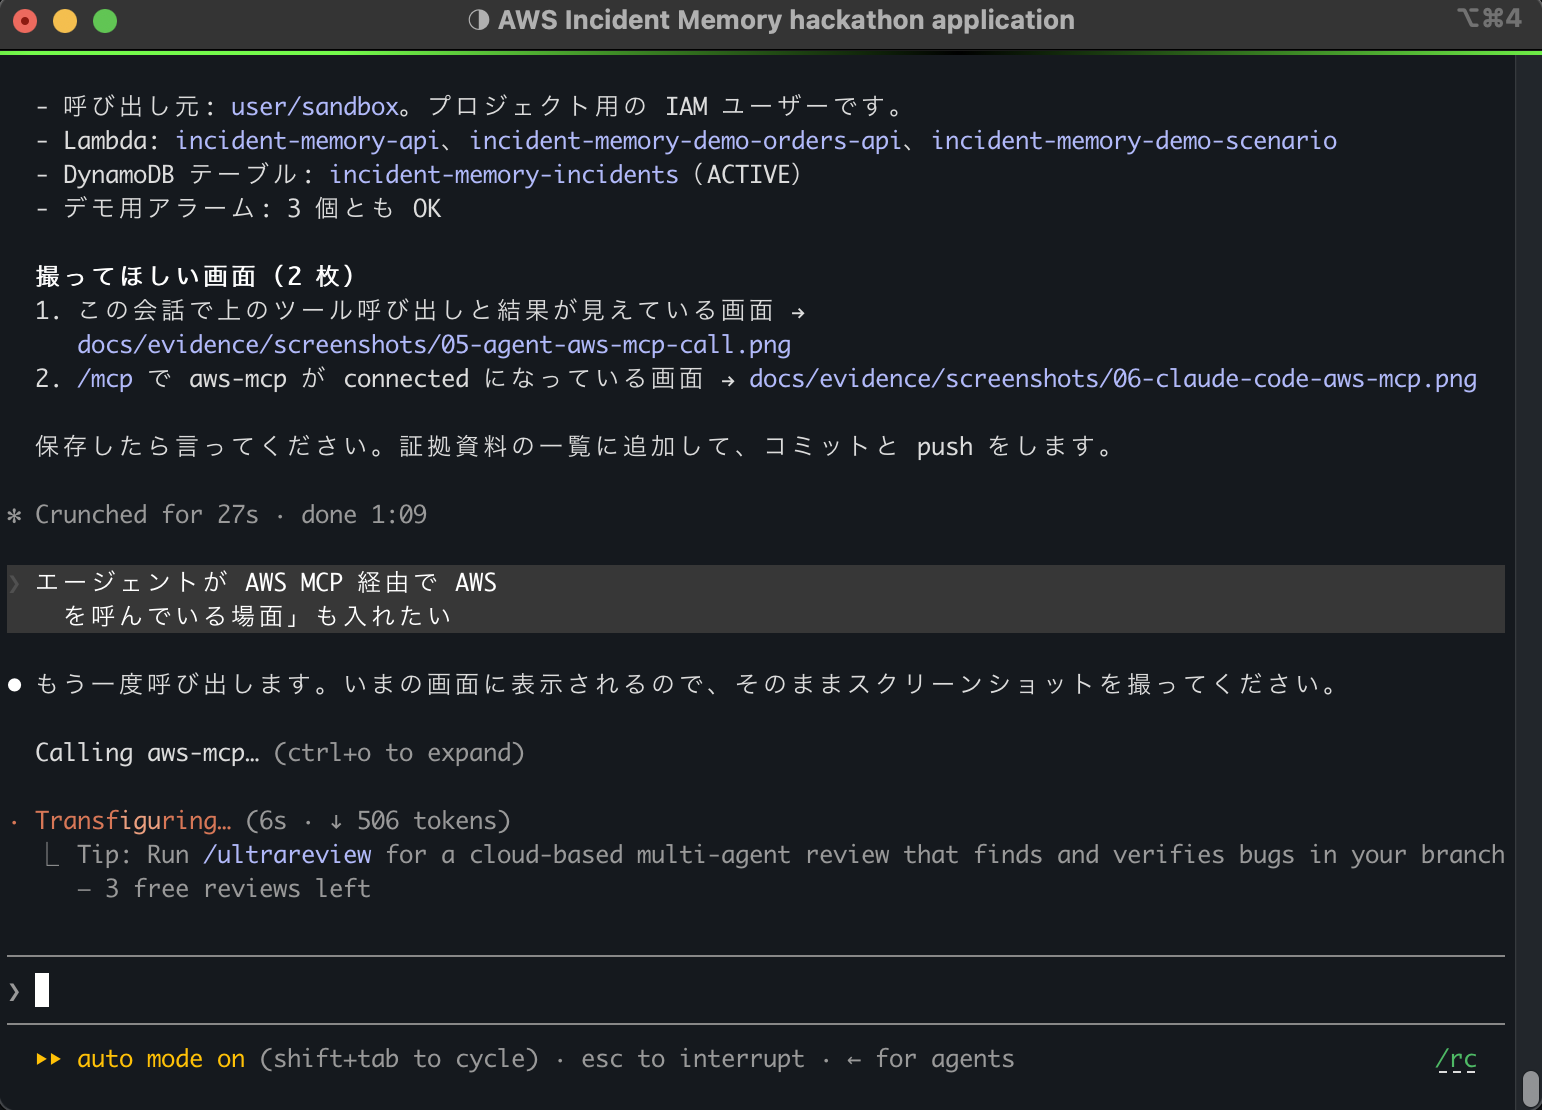
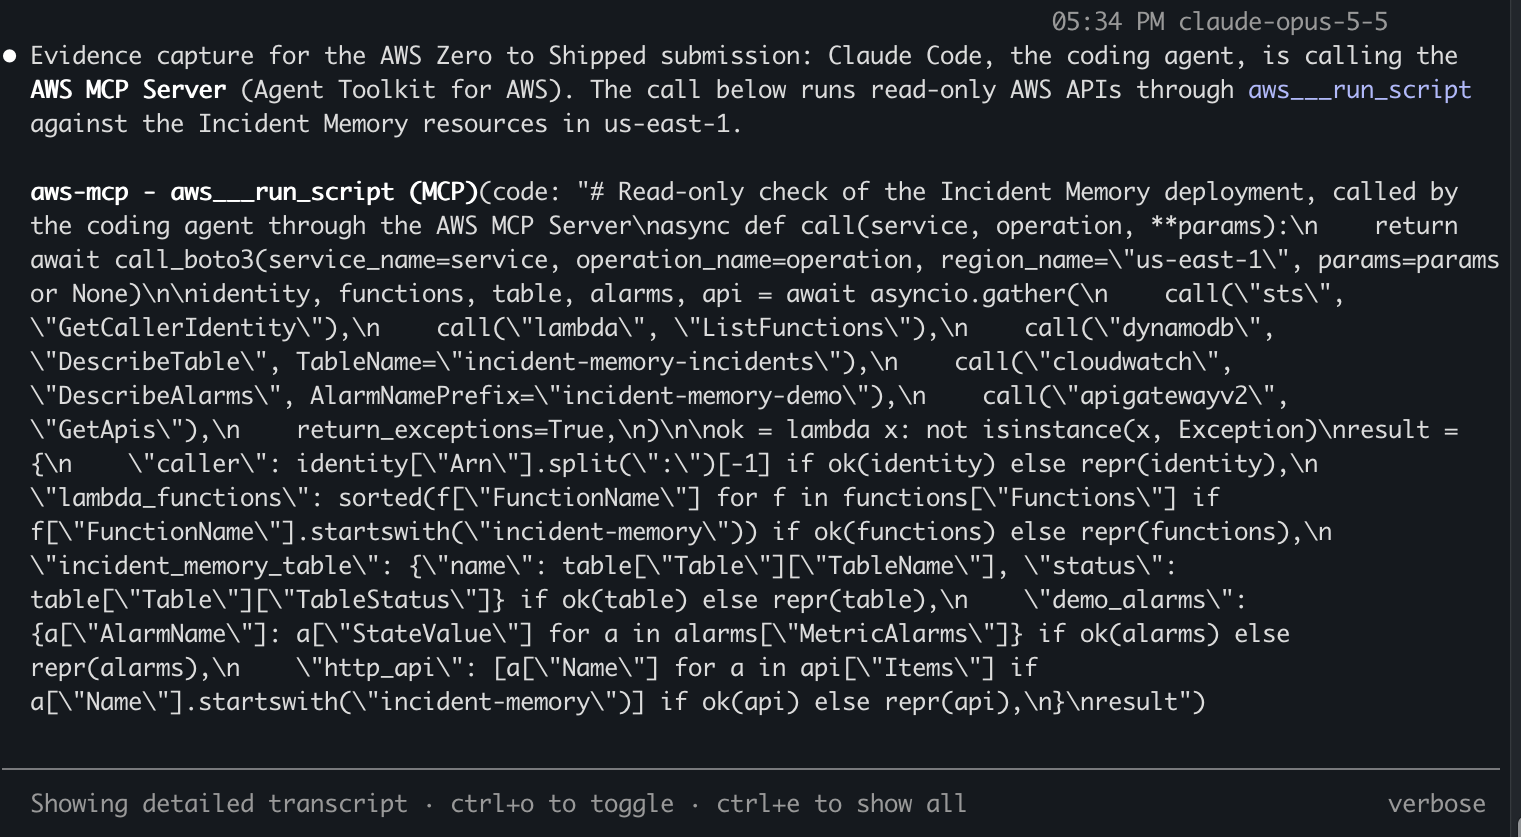
Replace the agent-call screenshot with an English-only capture
Cropped to the agent turn calling aws-mcp aws___run_script; the Japanese
screenshot 06 is removed and the call result is recorded as text.

Changed region(s): [[0.0, 0.0, 1.0, 0.994], [0.9888, 0.963, 1.0, 1.0]]

diff --git a/docs/evidence/aws-mcp/05-agent-session-call.md b/docs/evidence/aws-mcp/05-agent-session-call.md
@@ -49,3 +49,25 @@ to `incident-memory-*` resources in us-east-1. All four calls were read-only.
 The agent then used `aws___run_script` again to query CloudTrail (`LookupEvents`,
 `EventSource = aws-mcp.amazonaws.com`). The result listed the earlier `CallReadWriteTool` and
 `DestroySession` events from the MCP server; see `04-cloudtrail-aws-mcp-events.txt`.
+
+## Repeat for the English screenshot (2026-09-26 08:34 UTC)
+
+The same kind of read-only call was repeated in an English-only agent turn for `screenshots/05-agent-calling-aws-mcp.png`
+(tool `mcp__aws-mcp__aws___run_script`). Result, verbatim:
+
+```json
+{"status":"success","stdout":"",
+ "return_value":{
+   "caller":"user/sandbox",
+   "lambda_functions":["incident-memory-api","incident-memory-demo-orders-api","incident-memory-demo-scenario"],
+   "incident_memory_table":{"name":"incident-memory-incidents","status":"ACTIVE"},
+   "demo_alarms":{"incident-memory-demo-orders-api-errors-high":"OK",
+                  "incident-memory-demo-orders-api-latency-high":"OK",
+                  "incident-memory-demo-orders-api-throttles-high":"OK"},
+   "http_api":["incident-memory-api"]},
+ "api_calls":[{"service":"sts","operation":"GetCallerIdentity","status":"success"},
+              {"service":"lambda","operation":"ListFunctions","status":"success","n_items":{"Functions":3}},
+              {"service":"dynamodb","operation":"DescribeTable","status":"success"},
+              {"service":"cloudwatch","operation":"DescribeAlarms","status":"success","n_items":{"MetricAlarms":3,"CompositeAlarms":0,"LogAlarms":0}},
+              {"service":"apigatewayv2","operation":"GetApis","status":"success","n_items":{"Items":1}}]}
+```

diff --git a/docs/BUILDER_CENTER_POST.md b/docs/BUILDER_CENTER_POST.md
@@ -6,7 +6,7 @@ Copy the sections below into the AWS Builder Center project page.
 - **Tags:** `#commercial-potential` `#startups`
 - **Live app:** https://d2zs12dmk7373h.cloudfront.net
 - **Cover image:** `evidence/screenshots/03-incident-analysis-light.png` (crop the top: score, "Why 82% similar?", "What happened last time?")
-- **Images in the body:** `architecture.png`, `evidence/screenshots/01-dashboard.png`, `evidence/screenshots/03-incident-analysis-light.png`, `evidence/screenshots/07-claude-code-mcp-aws-connected.png`
+- **Images in the body:** `architecture.png`, `evidence/screenshots/01-dashboard.png`, `evidence/screenshots/03-incident-analysis-light.png`, `evidence/screenshots/05-agent-calling-aws-mcp.png`, `evidence/screenshots/07-claude-code-mcp-aws-connected.png`
 
 ---
 
@@ -120,6 +120,8 @@ Proof of the AWS connection: the `/mcp` panel showing the AWS MCP Server connect
 `aws___run_script`, and CloudTrail events from `aws-mcp.amazonaws.com` recorded by AWS itself.
 
 *[image: 07-claude-code-mcp-aws-connected.png]*
+
+*[image: 05-agent-calling-aws-mcp.png]*
 
 ### Why this can be a business (Startups lane)
 

diff --git a/docs/evidence/AWS_CONNECTION.md b/docs/evidence/AWS_CONNECTION.md
@@ -66,10 +66,9 @@ incident scenarios, and verified the live app. Terraform plan and apply outputs 
 
 ## Screenshots
 
-- [x] `screenshots/05-agent-calling-aws-mcp.png`: the Claude Code session while the agent is **calling aws-mcp**,
-      with the previous call's result (`user/sandbox`, Incident Memory Lambda functions, table and alarms) above it
-- [x] `screenshots/06-agent-called-aws-mcp.png`: the agent making two more **aws-mcp** calls (CloudTrail lookups) in the same session
-
+- [x] `screenshots/05-agent-calling-aws-mcp.png`: the Claude Code session in English: the agent states it is
+      calling the AWS MCP Server and runs **`aws-mcp - aws___run_script (MCP)`** with read-only calls
+      (GetCallerIdentity, ListFunctions, DescribeTable, DescribeAlarms, GetApis). The result is in `aws-mcp/05-agent-session-call.md`.
 - [x] `screenshots/07-claude-code-mcp-aws-connected.png`: Claude Code's `/mcp` panel showing **aws-mcp ✔ (8 tools)** as a user MCP server
 
 Screenshots are cropped to the Claude Code window only, so that no other project's information appears.

diff --git a/docs/SUBMISSION.md b/docs/SUBMISSION.md
@@ -135,7 +135,7 @@ leaking into a timeline, over-confident AI wording). The builder decided when th
 
 - [ ] Live URL reachable from a clean browser (no login)
 - [x] Proof of coding-agent connection to AWS documented: evidence/AWS_CONNECTION.md (MCP config, tool list, read-only call, CloudTrail events)
-- [x] Screenshots of the agent calling aws-mcp (evidence/screenshots/05-agent-calling-aws-mcp.png, 06-agent-called-aws-mcp.png) and the `/mcp` panel (07-claude-code-mcp-aws-connected.png)
+- [x] Screenshots of the agent calling aws-mcp (evidence/screenshots/05-agent-calling-aws-mcp.png) and the `/mcp` panel (07-claude-code-mcp-aws-connected.png)
 - [x] Screenshots captured (docs/evidence/screenshots): attach them to the Builder Center page
 - [x] Architecture diagram ready (docs/architecture.png): attach it to the Builder Center page
 - [ ] Tags: `#commercial-potential`, `#startups`
